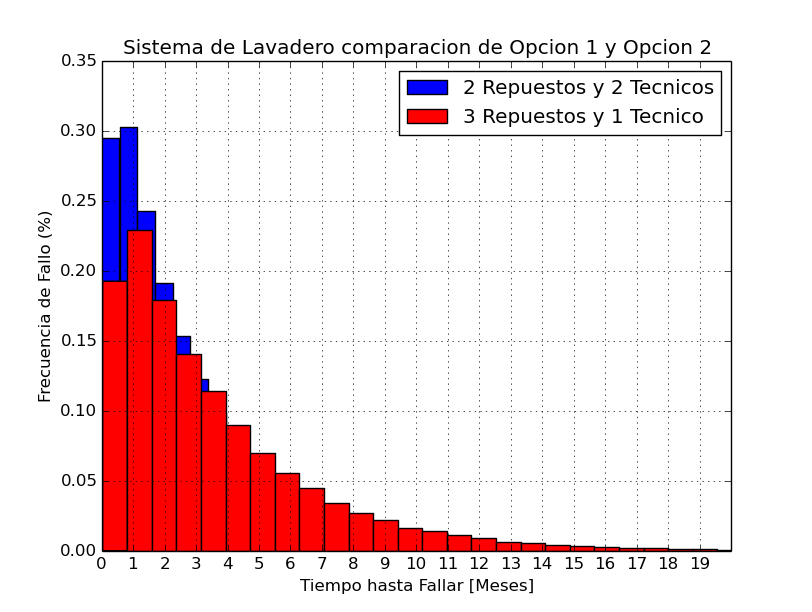
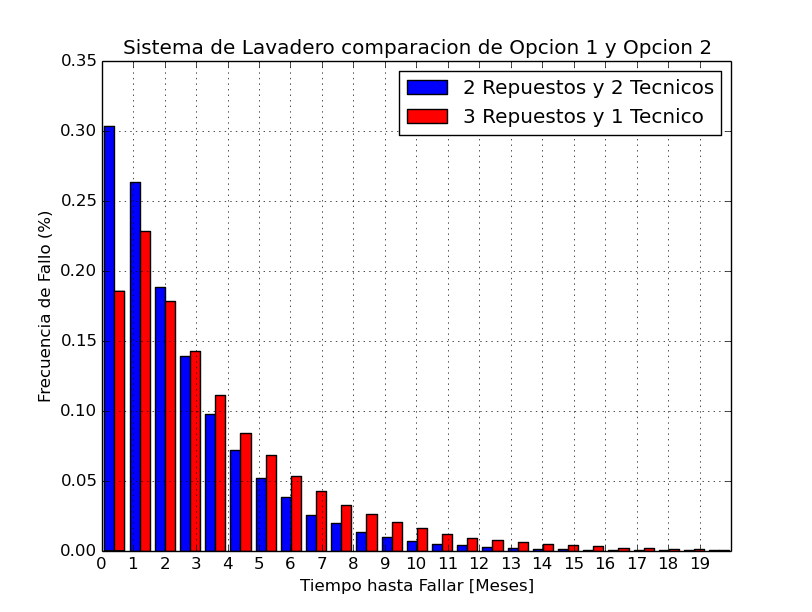
Cambios en el reporte y el indice

Changed region(s): [[0.1232, 0.1863, 0.8313, 0.9003]]

diff --git a/Trabajos_Especiales/TE01/trabajo01.py b/Trabajos_Especiales/TE01/trabajo01.py
@@ -267,12 +267,12 @@ def plot():
     plt.grid(True)
     plt.xticks(xrange(0, 20, 1))
     plt.xlim(0, 20)
-    plt.hist(v2, bins=50, normed=True, color="b", label="2 Repuestos y 2 Tecnicos")
-    plt.hist(v3, bins=50, normed=True, color="r", label="3 Repuestos y 1 Tecnico")
+    plt.hist([v2, v3], bins=50, normed=True, color=["b", "r"], label=["2 Repuestos y 2 Tecnicos", "3 Repuestos y 1 Tecnico"])
+    #plt.hist(v3, bins=50, normed=True, color="r", label="3 Repuestos y 1 Tecnico")
     plt.legend()
 
     plt.show()
 
 
-printEV()
+#printEV()
 plot()
